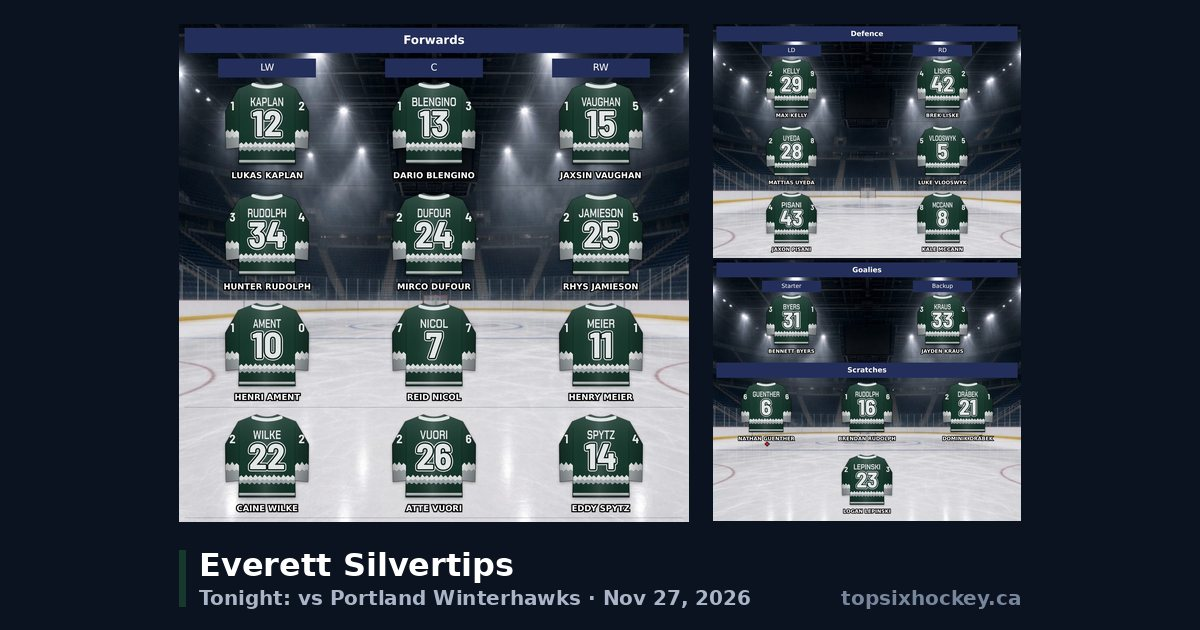
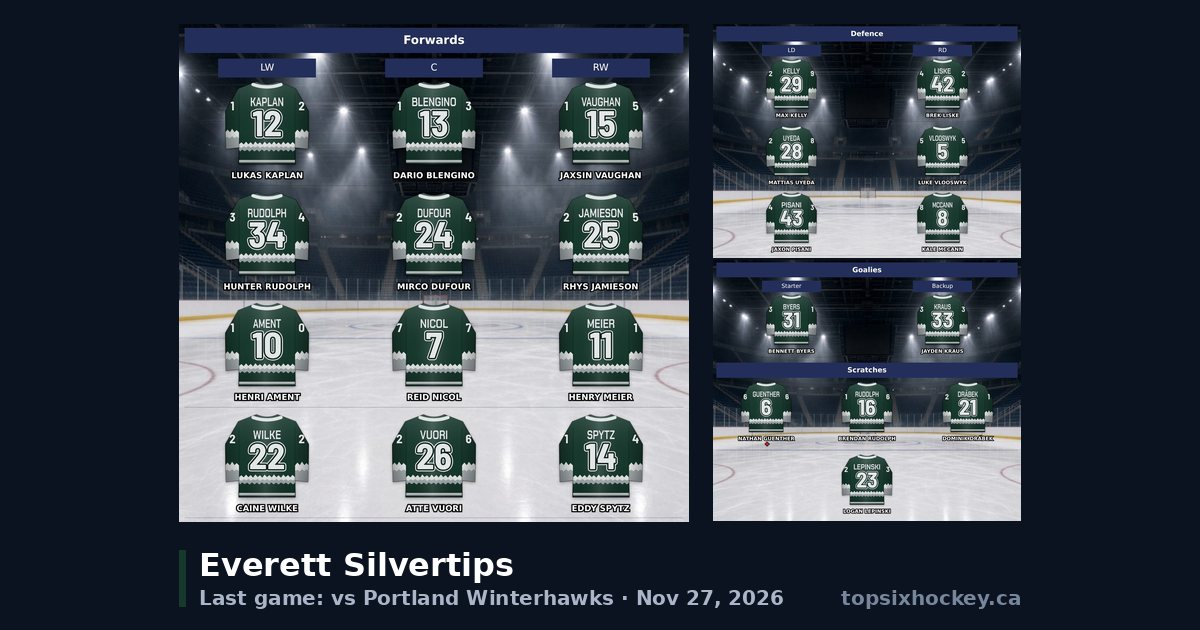
Update team share pages

Changed region(s): [[0.1542, 0.9349, 0.6475, 0.9651]]

diff --git a/whl/portland-winterhawks/index.html b/whl/portland-winterhawks/index.html
@@ -2,21 +2,21 @@
 <html lang="en"><head><meta charset="utf-8">
 <title>Portland Winterhawks Line Combinations | Top Six Hockey</title>
 <meta name="viewport" content="width=device-width, initial-scale=1">
-<meta name="description" content="Portland Winterhawks lines: forwards, defence pairings, goalies and scratches. Tonight: at Everett Silvertips · Nov 27, 2026.">
+<meta name="description" content="Portland Winterhawks lines: forwards, defence pairings, goalies and scratches. Last game: at Everett Silvertips · Nov 27, 2026.">
 <link rel="canonical" href="https://topsixhockey.ca/whl/portland-winterhawks/">
 <meta property="og:type" content="website">
 <meta property="og:site_name" content="Top Six Hockey">
 <meta property="og:title" content="Portland Winterhawks lineup | Top Six Hockey">
-<meta property="og:description" content="Portland Winterhawks lines: forwards, defence pairings, goalies and scratches. Tonight: at Everett Silvertips · Nov 27, 2026.">
+<meta property="og:description" content="Portland Winterhawks lines: forwards, defence pairings, goalies and scratches. Last game: at Everett Silvertips · Nov 27, 2026.">
 <meta property="og:url" content="https://topsixhockey.ca/whl/portland-winterhawks/">
-<meta property="og:image" content="https://topsixhockey.ca/og/whl-portland-winterhawks.jpg?v=9de72f17ab">
+<meta property="og:image" content="https://topsixhockey.ca/og/whl-portland-winterhawks.jpg?v=eb27811dd4">
 <meta property="og:image:width" content="1200">
 <meta property="og:image:height" content="630">
 <meta name="twitter:card" content="summary_large_image">
 <meta name="twitter:site" content="@TopSixHockey6">
 <meta name="twitter:title" content="Portland Winterhawks lineup | Top Six Hockey">
-<meta name="twitter:description" content="Portland Winterhawks lines: forwards, defence pairings, goalies and scratches. Tonight: at Everett Silvertips · Nov 27, 2026.">
-<meta name="twitter:image" content="https://topsixhockey.ca/og/whl-portland-winterhawks.jpg?v=9de72f17ab">
+<meta name="twitter:description" content="Portland Winterhawks lines: forwards, defence pairings, goalies and scratches. Last game: at Everett Silvertips · Nov 27, 2026.">
+<meta name="twitter:image" content="https://topsixhockey.ca/og/whl-portland-winterhawks.jpg?v=eb27811dd4">
 <script>location.replace("/?team=whl_portland");</script>
 </head><body style="margin:0;background:#0b1220;color:#fff;font:16px system-ui,sans-serif;display:flex;min-height:100vh;align-items:center;justify-content:center">
 <p>Opening the Portland Winterhawks lineup&hellip; <a style="color:#f2b705" href="/?team=whl_portland">Continue</a></p>

diff --git a/whl/everett-silvertips/index.html b/whl/everett-silvertips/index.html
@@ -2,21 +2,21 @@
 <html lang="en"><head><meta charset="utf-8">
 <title>Everett Silvertips Line Combinations | Top Six Hockey</title>
 <meta name="viewport" content="width=device-width, initial-scale=1">
-<meta name="description" content="Everett Silvertips lines: forwards, defence pairings, goalies and scratches. Tonight: vs Portland Winterhawks · Nov 27, 2026.">
+<meta name="description" content="Everett Silvertips lines: forwards, defence pairings, goalies and scratches. Last game: vs Portland Winterhawks · Nov 27, 2026.">
 <link rel="canonical" href="https://topsixhockey.ca/whl/everett-silvertips/">
 <meta property="og:type" content="website">
 <meta property="og:site_name" content="Top Six Hockey">
 <meta property="og:title" content="Everett Silvertips lineup | Top Six Hockey">
-<meta property="og:description" content="Everett Silvertips lines: forwards, defence pairings, goalies and scratches. Tonight: vs Portland Winterhawks · Nov 27, 2026.">
+<meta property="og:description" content="Everett Silvertips lines: forwards, defence pairings, goalies and scratches. Last game: vs Portland Winterhawks · Nov 27, 2026.">
 <meta property="og:url" content="https://topsixhockey.ca/whl/everett-silvertips/">
-<meta property="og:image" content="https://topsixhockey.ca/og/whl-everett-silvertips.jpg?v=69a763638f">
+<meta property="og:image" content="https://topsixhockey.ca/og/whl-everett-silvertips.jpg?v=964b5b8f63">
 <meta property="og:image:width" content="1200">
 <meta property="og:image:height" content="630">
 <meta name="twitter:card" content="summary_large_image">
 <meta name="twitter:site" content="@TopSixHockey6">
 <meta name="twitter:title" content="Everett Silvertips lineup | Top Six Hockey">
-<meta name="twitter:description" content="Everett Silvertips lines: forwards, defence pairings, goalies and scratches. Tonight: vs Portland Winterhawks · Nov 27, 2026.">
-<meta name="twitter:image" content="https://topsixhockey.ca/og/whl-everett-silvertips.jpg?v=69a763638f">
+<meta name="twitter:description" content="Everett Silvertips lines: forwards, defence pairings, goalies and scratches. Last game: vs Portland Winterhawks · Nov 27, 2026.">
+<meta name="twitter:image" content="https://topsixhockey.ca/og/whl-everett-silvertips.jpg?v=964b5b8f63">
 <script>location.replace("/?team=whl_everett");</script>
 </head><body style="margin:0;background:#0b1220;color:#fff;font:16px system-ui,sans-serif;display:flex;min-height:100vh;align-items:center;justify-content:center">
 <p>Opening the Everett Silvertips lineup&hellip; <a style="color:#f2b705" href="/?team=whl_everett">Continue</a></p>
